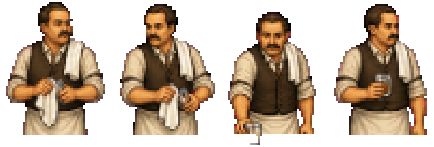
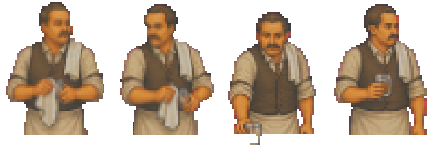
The Nugget's barman and the mercantile's doorway, wired; the barman softened to Thad's look in his cut (errata 325)
Claude-Session: https://claude.ai/code/session_01FXbCus2Hm36NL2YuHFGB8T

diff --git a/tools/art/nugget-barman-cut.py b/tools/art/nugget-barman-cut.py
@@ -40,6 +40,7 @@ OUT = 'art/actors/room-03-barman.png'
 FEET = (1580, 560)        # the brief: behind the bar, feet hidden at about y 560 (the curve's man there)
 COUNTER = 515             # the counter top's front edge: the band's bottom row
 CUT = 596                 # the sheet row where frame 3's set-down glass ends (measured: the glass spans 549-594)
+SOFT_CONTRAST = 34.0      # errata 325: the rest frame's luminance spread after softening, about Thad's at this man's size (32.3)
 BACK = 574                # the counter top's back edge, ~10 game px above its front edge: below it only the glass
 
 
@@ -95,6 +96,23 @@ def main(write):
         ox = int(round(half - torso_x(f))); oy = H - f.shape[0]
         c[oy:oy + f.shape[0], ox:ox + f.shape[1]][alpha(f)] = f[alpha(f)]
         cells.append(despill_edge(snap(c, block) if block > 1.05 else c, width=max(2, int(np.ceil(block)) + 1)))
+    # THE STYLE GATE'S CORRECTION, WITHOUT AN OPERATION (errata 325). The one operation came back about twice Thad's
+    # texture and contrast (11.41 and 62.5 against 6.60 and 32.3), and the cap was spent. Tyler rejects "accept it",
+    # so the miss is corrected here: every frame's luminance is drawn in toward the rest frame's own middle, by one
+    # factor for all four, until the rest frame's spread is Thad's. Each pixel moves all three channels by the same
+    # amount, so hue is kept: the same man, in the same lamp, with the hard light taken off him.
+    def lum3(x):
+        return 0.299 * x[..., 0] + 0.587 * x[..., 1] + 0.114 * x[..., 2]
+    rest_m = alpha(cells[0]); rest_l = lum3(cells[0][..., :3].astype(float))
+    centre = float(rest_l[rest_m].mean()); factor = SOFT_CONTRAST / float(rest_l[rest_m].std())
+    softened = []
+    for c in cells:
+        c = c.copy(); m = alpha(c); rgb = c[..., :3].astype(float); l = lum3(rgb)
+        shift = (centre + (l - centre) * factor) - l
+        rgb = np.clip(rgb + shift[..., None], 0, 255)
+        c[..., :3] = np.where(m[..., None], np.round(rgb), c[..., :3]).astype(np.uint8)
+        softened.append(c)
+    cells = softened
     sheet = np.zeros((H + 4, 2 + 4 * (W + 2), 4), np.uint8); rects = []
     for i, c in enumerate(cells):
         x = 2 + i * (W + 2); sheet[2:2 + H, x:x + W] = c; rects.append([x, 2, W, H])
@@ -118,6 +136,10 @@ def main(write):
     print(json.dumps(report, indent=1))
     if write:
         Image.fromarray(sheet).save(R(OUT))
+        # ONE LEVEL (errata 112; tests/one-level.test.mjs): the grid the game reads at his anchor row, so a re-cut
+        # lands on the same pixels the game ships (errata 325).
+        import subprocess
+        subprocess.run([sys.executable, R('tools/art/one-level.py'), '--only', 'room-03-barman'], check=True, stdout=subprocess.DEVNULL)
         render(cells, room, W, H)
 
 

diff --git a/docs/00-errata.md b/docs/00-errata.md
@@ -8105,3 +8105,14 @@ Every flag that opens a place is written in play, so nothing is shut for good (i
 Lesson:
 - `tests/act-one-places.test.ts`: on night one the map shows the town and the road, and nothing past it. Each far place appears when its flag is written, and every opening flag is written in play. It fails on the map as it was.
 - `tests/room-26`, `-27`, `-29` and `-30.test.ts`: each place goes on the map once the road has been walked and the story reaches it, and not on the road alone.
+
+## 325 · The barman and the mercantile's doorway, wired (Tyler's image session, 2026-11-14)
+
+- **The mercantile's doorway** (`reference/mercantile-doorway/handback.md`). The plate is repainted inside the doorway only (x 62–251, y 0–717, with 0 pixels changed outside the mask). Through the batwings: the porch boards and the first yard of mud in the lantern's light, the dark street, the hills and the stars. Nothing is built across the street. The plate's hash is recorded in `reference/room-12/annotation.json`. For Tyler's eye: a few blue pixels of the old view remain on the doorframe's right inner edge.
+- **The barman** (`reference/nugget-barman/handback.md`). He stands behind the counter between the second and third drinkers, a band at (1580, 515), inside the bar's hotspot, with no lines of his own (`content/ambient/nugget-barman.json`). The operation missed twice, and no operation was left to correct either miss. Both are corrected without one, as the style gate's step 4 asks:
+  - **Too sharp** (texture 11.41 and contrast 62.5, against Thad's 6.60 and 32.3). `tools/art/nugget-barman-cut.py` now draws every frame's luminance in toward the rest frame's middle, by one factor, until its spread is Thad's. All three channels move together, so hue is kept. Then it snaps the sheet to one level (`tools/art/one-level.py`, errata 112). As shipped: texture 5.6, contrast 33.
+  - **Brighter than his night** (errata 205: 2.50x Thad's luminance where he stands, against a limit of 2.21x). He is graded into the Nugget's lamplight with the pianist and Deke (`figureLight`, reference/room-03/annotation.json).
+  - **A cloth that vanishes** (errata 111). Frames 2 and 3 lost the hand cloth that 0 and 1 hold. Only frames 0 and 1, the two polishing poses, are played. 2 and 3 stay on the sheet unplayed.
+
+Lesson:
+- Doc 55 §8: with no operation left, a figure that is too sharp is softened in its cut, and a pose that drops a held thing is left unplayed. Neither miss is accepted.

diff --git a/docs/55-full-game-build.md b/docs/55-full-game-build.md
@@ -317,3 +317,4 @@ Every row here shipped past a green suite and was found by Tyler playing, by a r
 - **A figure that moves rooms takes its lines with it, and finds the new room's lines waiting.** When Main Street was thinned (errata 193), four townspeople moved. Their own lines still gave directions from the street they had left: the message boy, standing in the Lane, sent Thad "Down the lane". The claim row's path still said "Nobody comes up here" with two men arguing on it. The funeral day still called Main Street "half empty" after most of the people it counted had gone. Every check passed, because every line was still a line. **When a figure moves, read its own lines for where they assume it stands, and read every LISTEN and LOOK in the new room, and every line in the old one, for who they assume is there** (errata 196).
 - **A figure reused in another room faces what it watches there.** Scene A put Room 31's mourners at Boot Hill's gate. At the funeral they face left, toward the grave. At the gate the hearse was on their right, so they stood with their backs half to it (Tyler, 2026-11-09: "are the mourners all looking the wrong direction now?"). Every check passed, because a figure facing the wrong way is still on the curve and still clear of everyone. **When a figure is reused, find what it is looking at in the new room, and mirror its cells if that thing is on the other side** (`tools/art/mirror-cells.py`; `tests/hearse.test.ts` holds the gate).
 - **A line that says when something happened is read the moment after it happened.** Frame told Thad that Vessel "took the Tuesday coach" when Thad could ask the very next minute after the swindle (Tyler, 2026-11-14: "says Deke left on Tuesday even though I just got the claim from him"). A day of the week in a reply fixes time the player never saw pass. **Before a reply names a day, find the earliest state its gate allows, and read it there** (errata 322).
+- **With no operation left, a miss is still corrected, in the cut.** The barman came back at twice Thad's texture and contrast, and two of his four frames dropped the cloth in his hand (errata 111). The cap was spent. **Too sharp: draw the luminance in toward the rest frame's middle, by one factor for every frame, until its spread is Thad's (hue is kept), then snap to one level. A pose that drops a held thing: leave it unplayed, and say so in the record** (errata 325; `tools/art/nugget-barman-cut.py`).
